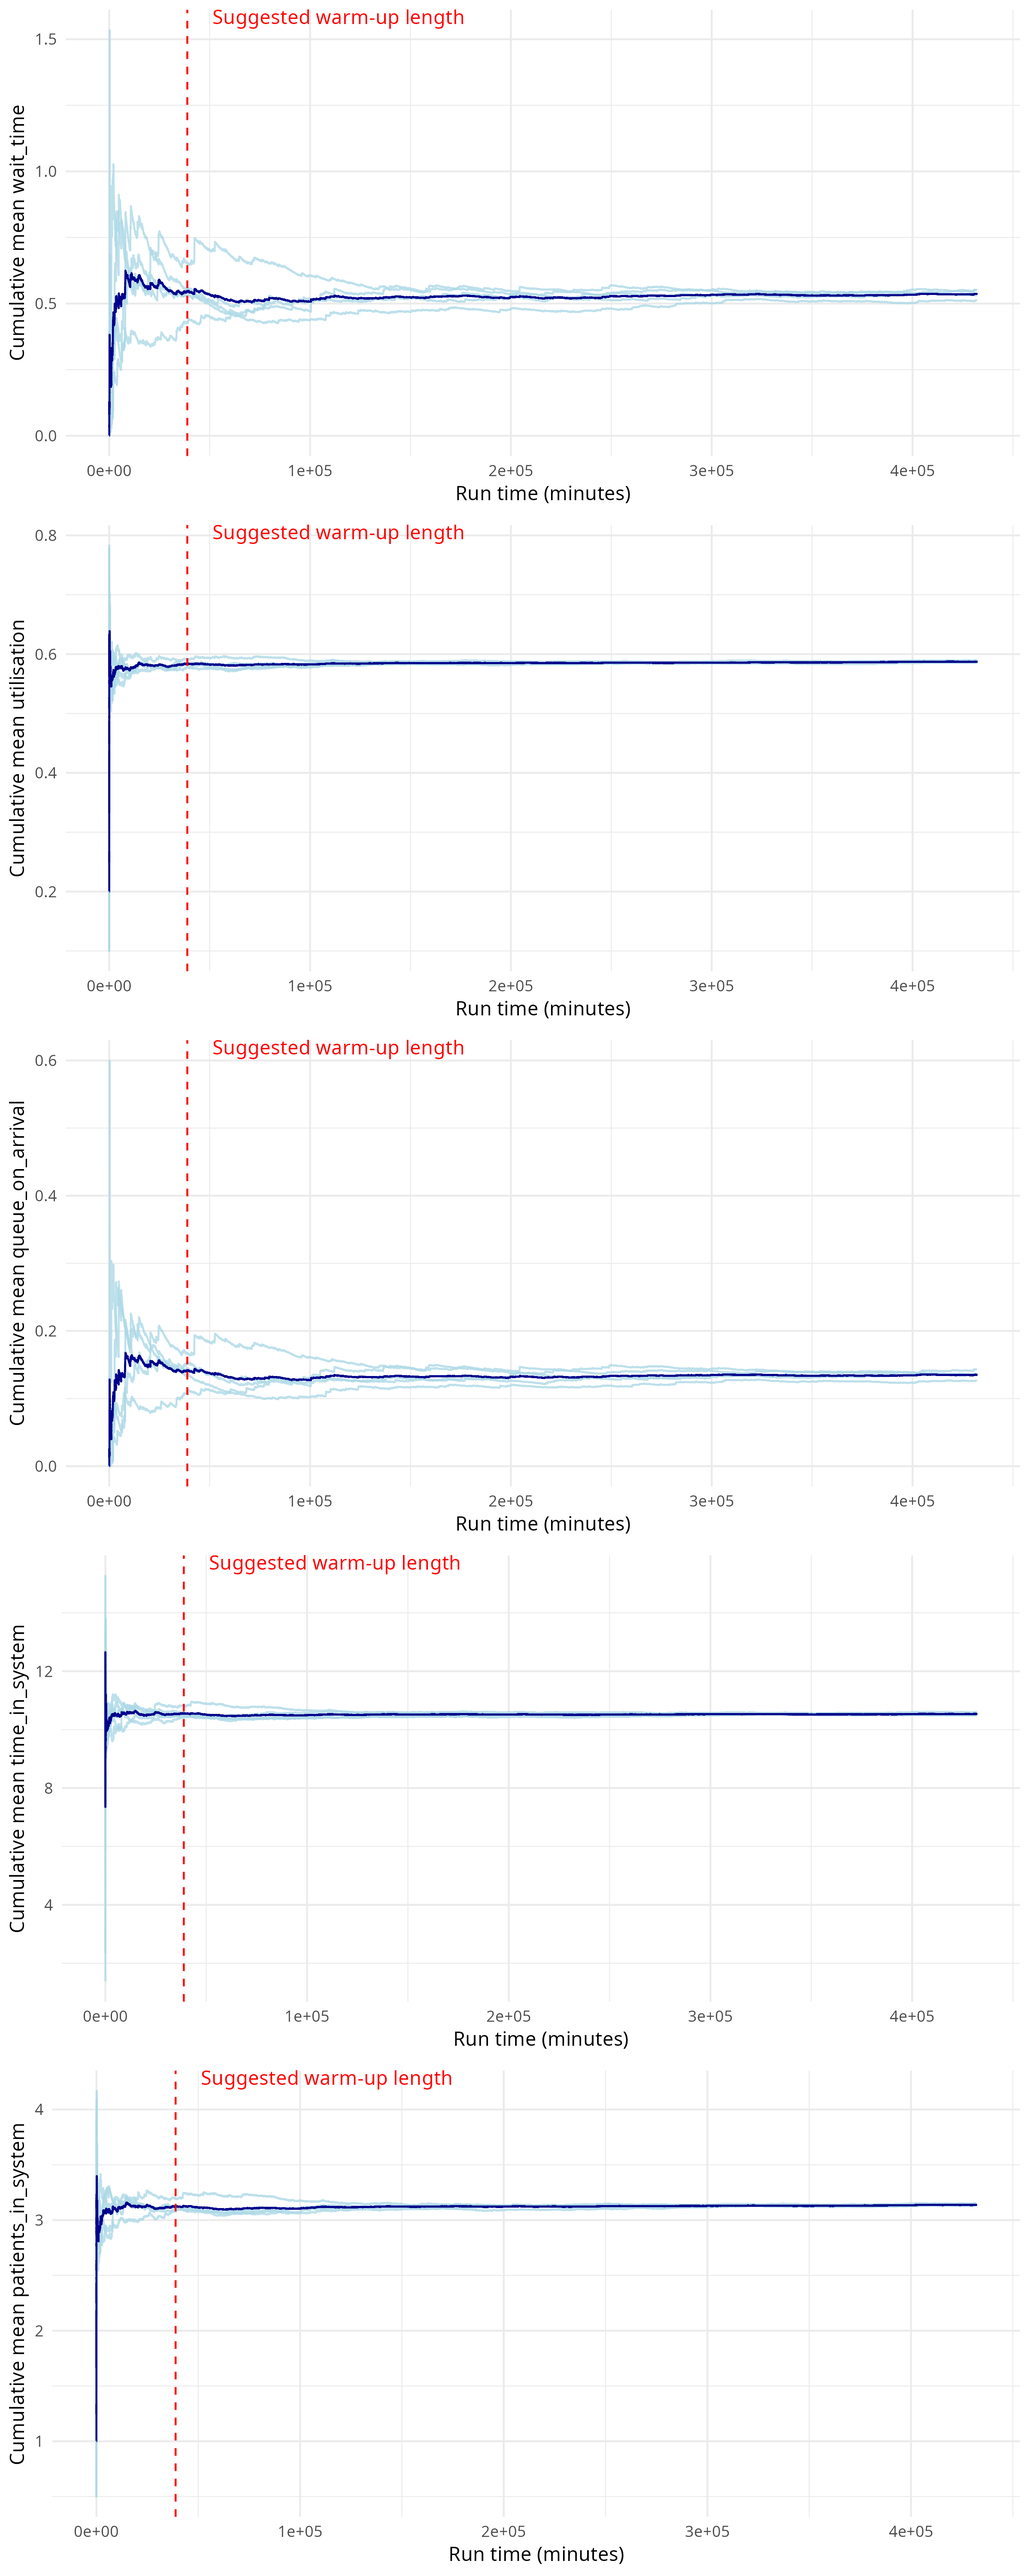
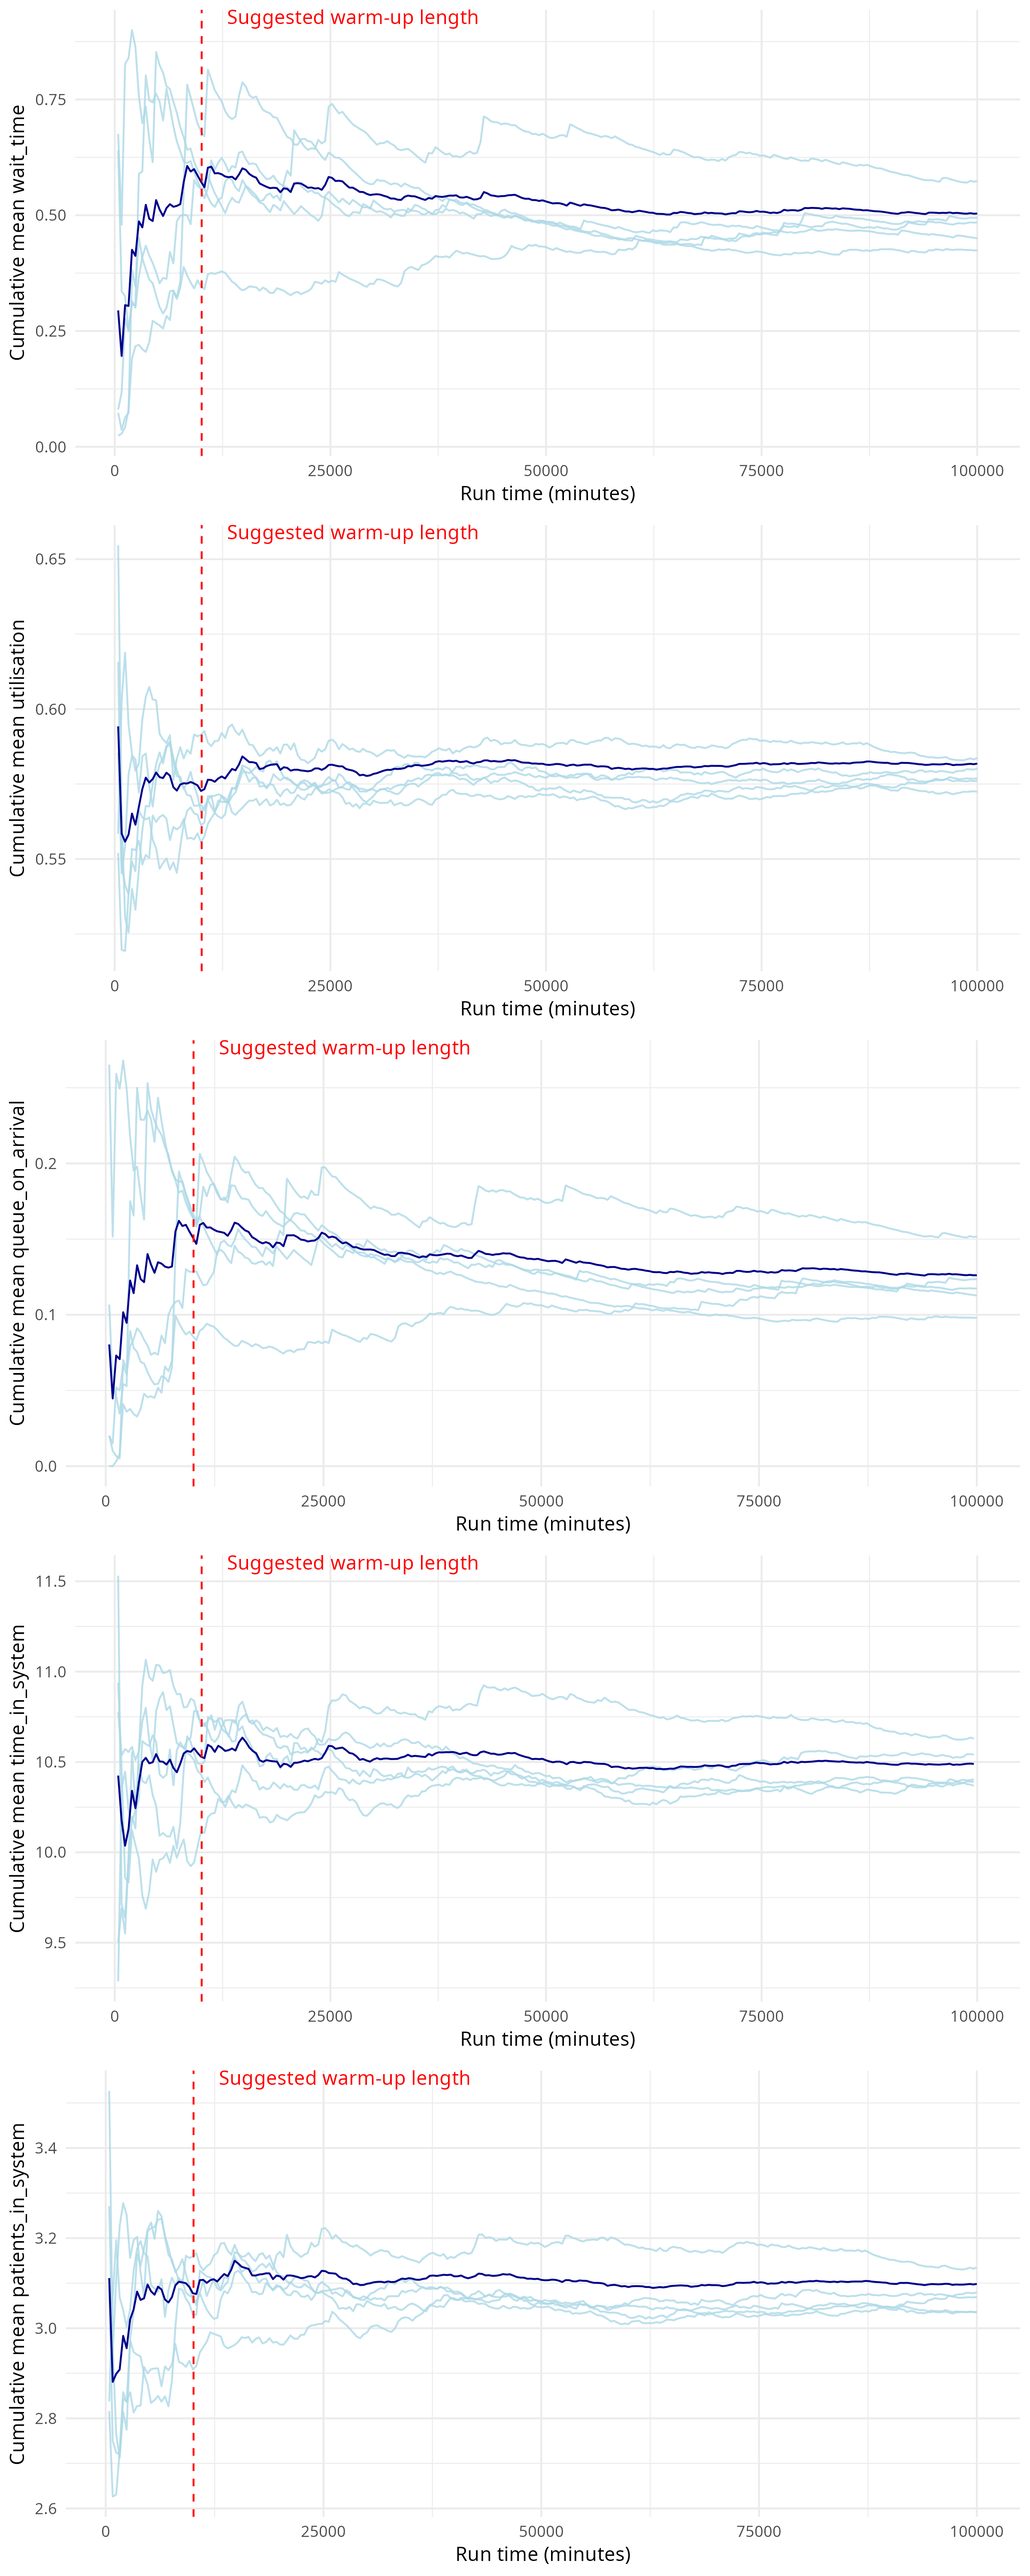
fix/refactor(warmup): correct to use intervals, re-run analysis with data collection 100L and interval 400, suggest warm-up 10K (#104)

diff --git a/rmarkdown/choosing_warmup.md b/rmarkdown/choosing_warmup.md
@@ -1,7 +1,7 @@
 Choosing warm-up length
 ================
 Amy Heather
-2025-11-07
+2025-11-10
 
 - [Set-up](#set-up)
 - [Determining appropriate warm-up
@@ -83,7 +83,7 @@ param <- parameters(
   warm_up_period = 0L,
   number_of_runs = 5L
 )
-param[["data_collection_period"]] <- param[["data_collection_period"]] * 10L
+param[["data_collection_period"]] <- 100000L
 print(param)
 ```
 
@@ -100,7 +100,7 @@ print(param)
     ## [1] 0
     ## 
     ## $data_collection_period
-    ## [1] 432000
+    ## [1] 100000
     ## 
     ## $number_of_runs
     ## [1] 5
@@ -133,8 +133,8 @@ cumulative mean over time (for each replication, and overall) and plot
 it.
 
 We’ve add a line to the point where it appears to reach a steady state -
-this is a subjective choice but here, for example, we could select **27
-days** (1440\*27=38880 minutes).
+this is a subjective choice but here, for example, we could select **7
+days** (1440\*7=10080 minutes).
 
 ``` r
 path <- file.path(output_dir, "choose_param_time_series.png")
@@ -143,15 +143,16 @@ time_series_inspection(
   result = result,
   simulation_end_time = param[["data_collection_period"]],
   file_path = path,
-  warm_up = 38880L  # Location for dashed red line (manually chosen)
+  interval = 400L,
+  warm_up = 10080L
 )
 ```
 
-    ## Warning: Removed 20 rows containing missing values or values outside the scale
-    ## range (`geom_line()`).
+    ## Warning: Removed 5 rows containing missing values or values outside the scale range
+    ## (`geom_line()`).
 
-    ## Warning: Removed 26 rows containing missing values or values outside the scale
-    ## range (`geom_line()`).
+    ## Warning: Removed 1 row containing missing values or values outside the scale range
+    ## (`geom_line()`).
 
 ``` r
 include_graphics(path)
@@ -172,4 +173,4 @@ seconds <- as.integer(runtime %% 60L)
 cat(sprintf("Notebook run time: %dm %ds", minutes, seconds))
 ```
 
-    ## Notebook run time: 0m 19s
+    ## Notebook run time: 0m 3s
